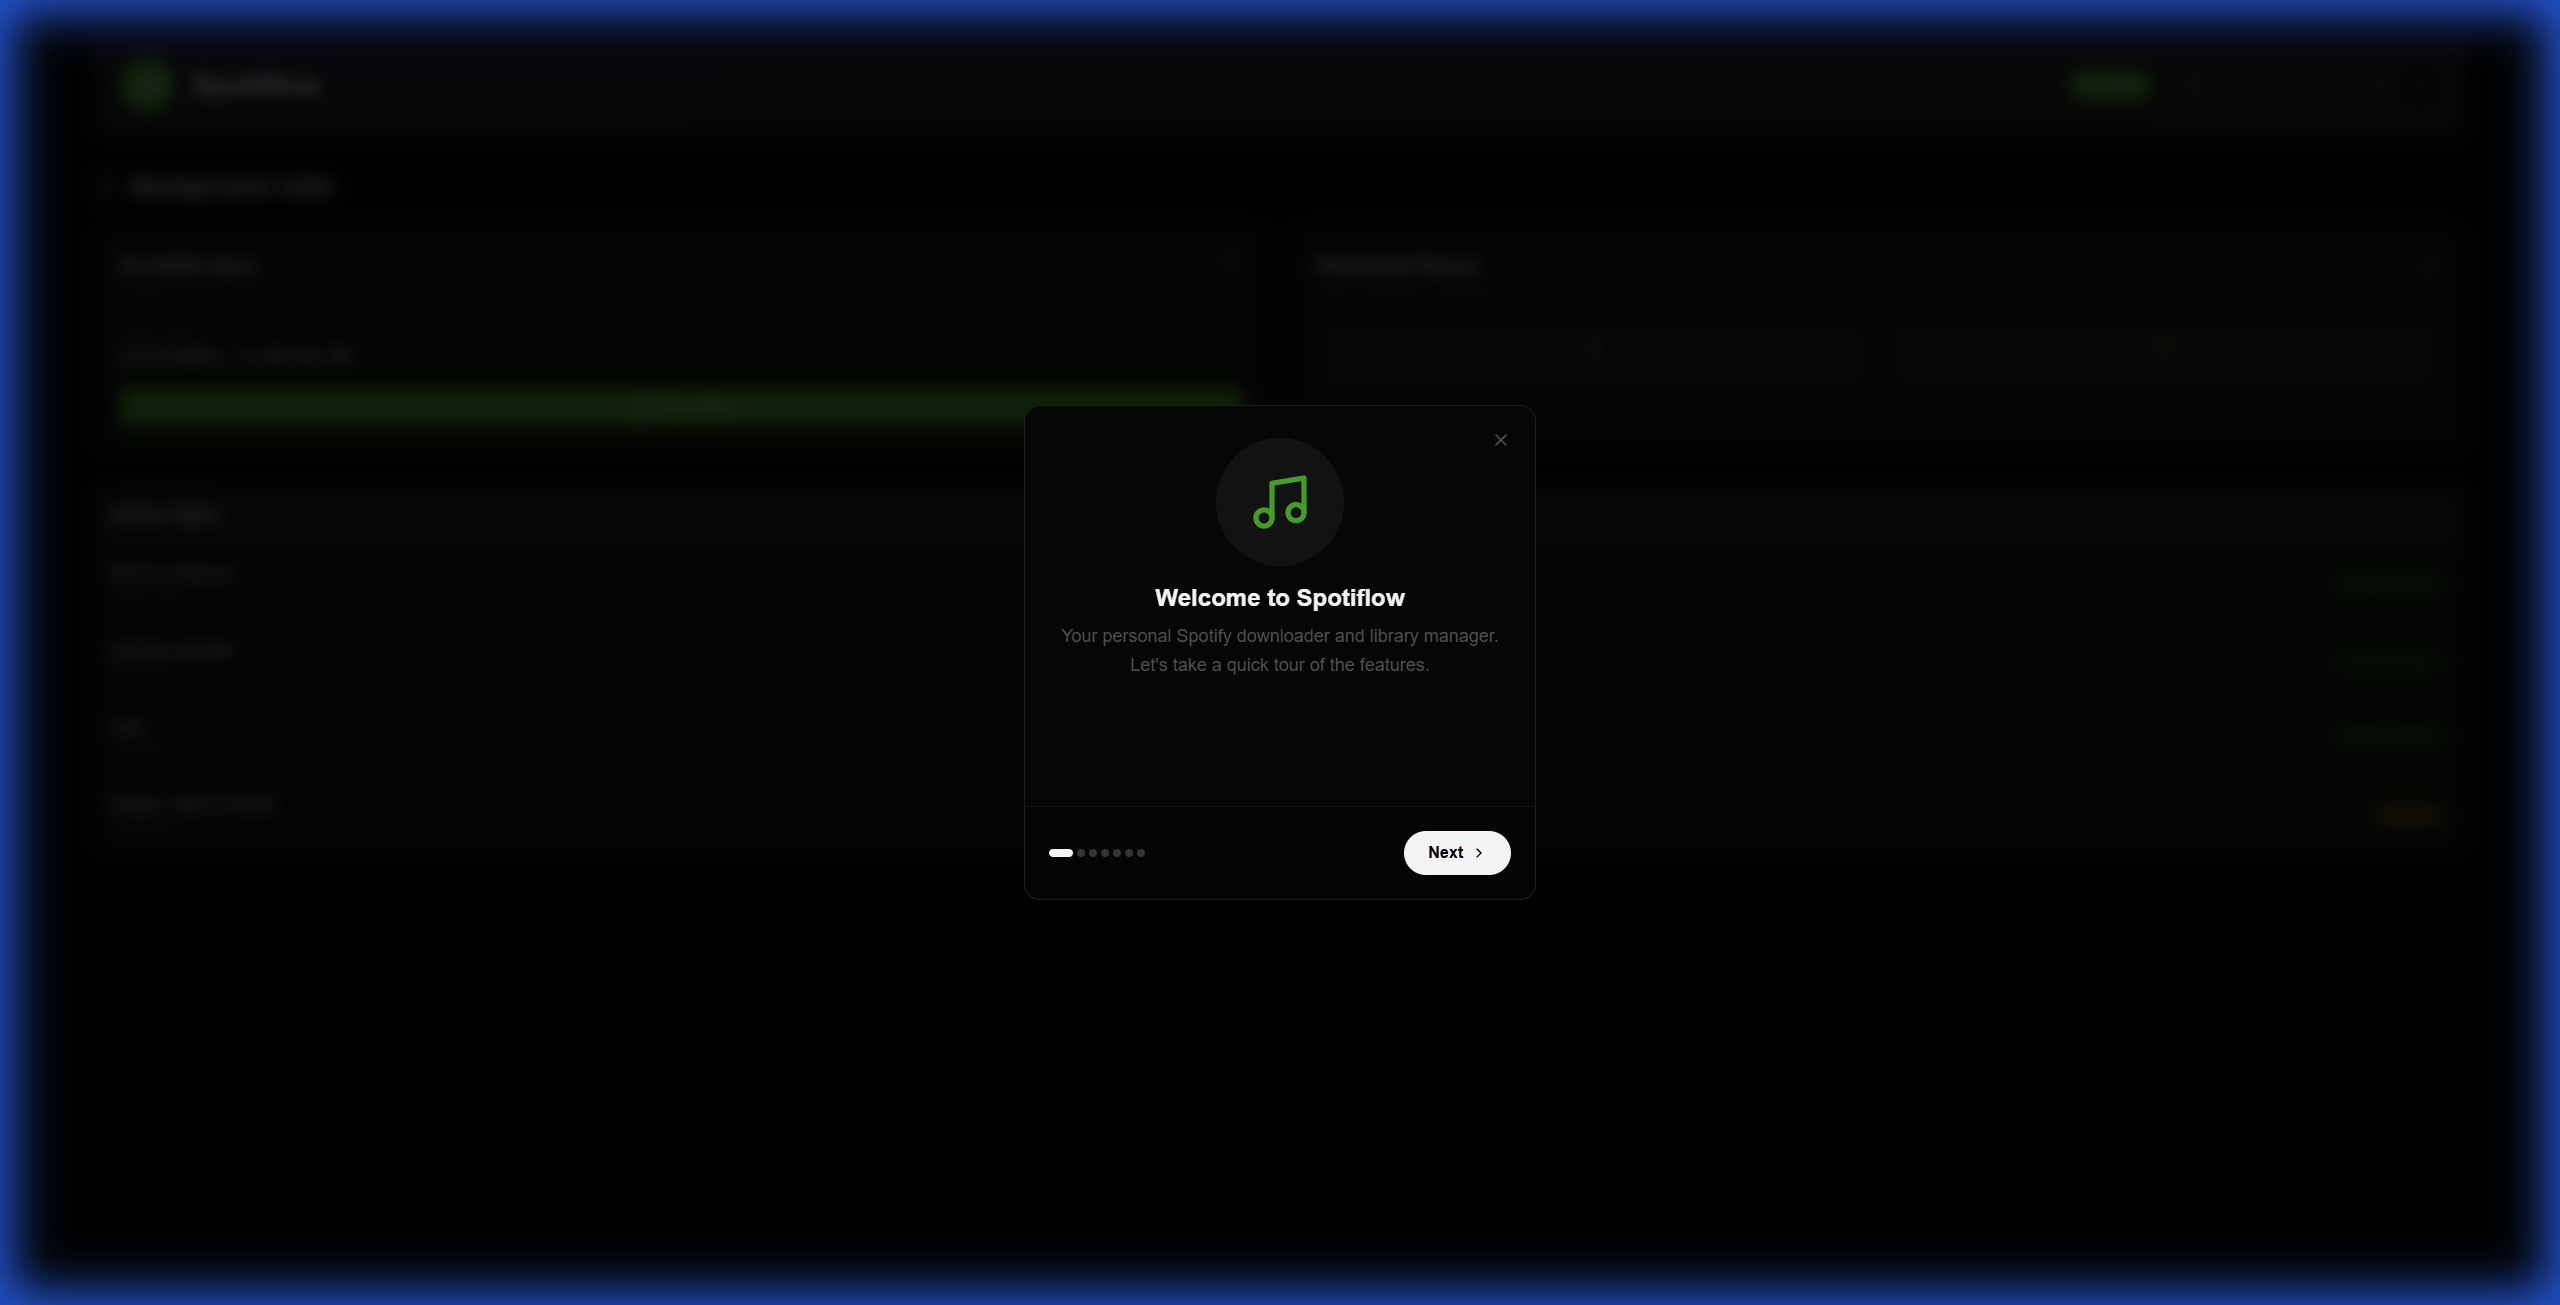
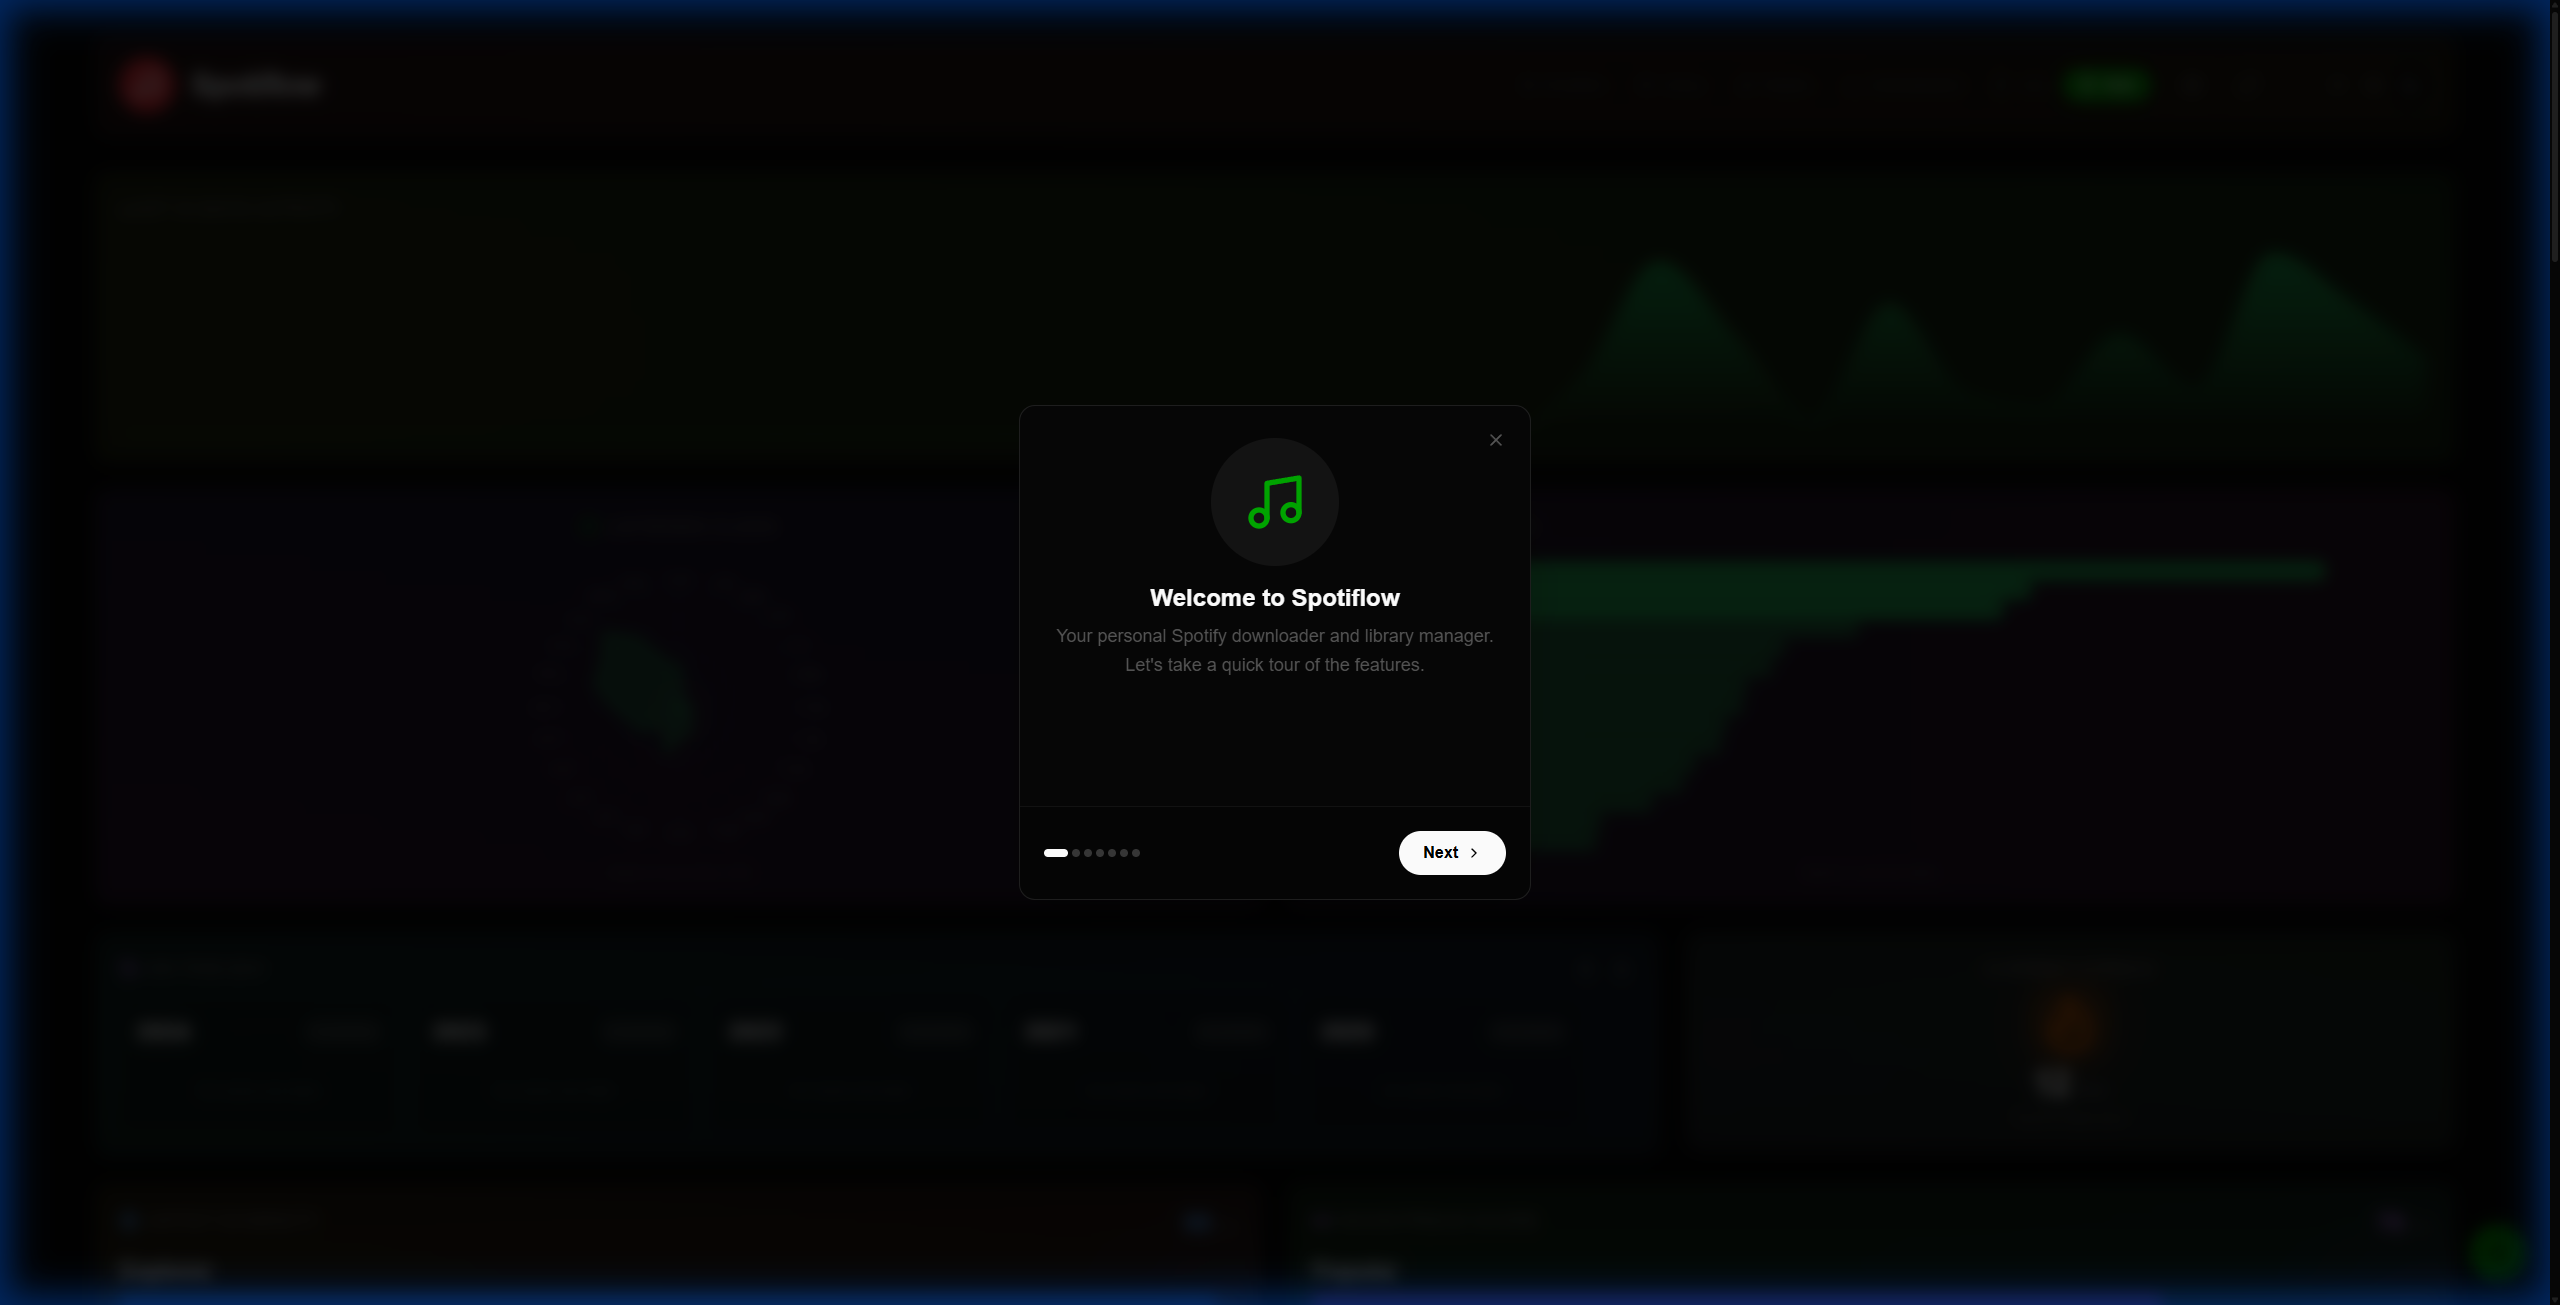
docs: update README and screenshots, impl tutorial prefetching

diff --git a/frontend/src/App.jsx b/frontend/src/App.jsx
@@ -109,11 +109,12 @@ function AppContent() {
     return () => controller.abort();
   }, [username]);
 
-  const fetchScrobbles = async (signal) => {
-    if (!username) return;
+  const fetchScrobbles = async (signal, userOverride) => {
+    const userToFetch = userOverride || username;
+    if (!userToFetch) return;
     setLoading(true);
     try {
-      const response = await axios.get(`${API_URL}/scrobbles/${username}`, { signal });
+      const response = await axios.get(`${API_URL}/scrobbles/${userToFetch}`, { signal });
       setTracks(response.data);
     } catch (error) {
       if (axios.isCancel(error)) return;
@@ -188,6 +189,48 @@ function AppContent() {
       toast.error("Failed to fetch library");
     } finally {
       if (!signal?.aborted) setLoading(false);
+    }
+  };
+
+  const prefetchStats = async (userOverride) => {
+    const user = userOverride || username;
+    if (!user) return;
+
+    const periods = ['overall', '1month']; // Prefetch most common periods
+
+    try {
+      const promises = [
+        // Top Tracks for main periods
+        ...periods.map(period => axios.get(`${API_URL}/stats/top-tracks/${user}`, { params: { period, limit: 50 } })),
+
+        // Activity Chart
+        axios.get(`${API_URL}/stats/chart`, { params: { user, period: '1month' } }),
+
+        // Listening Clock
+        axios.get(`${API_URL}/stats/listening-clock/${user}`, { params: { period: 'overall' } }),
+
+        // Genre Breakdown
+        axios.get(`${API_URL}/stats/genre-breakdown/${user}`, { params: { period: 'overall' } }),
+
+        // On This Day
+        axios.get(`${API_URL}/stats/on-this-day/${user}`),
+
+        // Streak
+        axios.get(`${API_URL}/stats/streak/${user}`),
+
+        // Diversity
+        axios.get(`${API_URL}/stats/diversity/${user}`, { params: { period: 'overall' } }),
+
+        // Mainstream
+        axios.get(`${API_URL}/stats/mainstream/${user}`, { params: { period: 'overall' } }),
+
+        // Top Artists
+        axios.get(`${API_URL}/stats/top-artists/${user}`, { params: { period: 'overall', limit: 3 } })
+      ];
+
+      await Promise.all(promises);
+    } catch (error) {
+      console.error("Error prefetching stats:", error);
     }
   };
 
@@ -337,6 +380,15 @@ function AppContent() {
           } catch (error) {
             console.error("Failed to save tutorial status:", error);
           }
+        }}
+        onTutorialComplete={async (newUsername) => {
+          setUsername(newUsername);
+          // Prefetch scrobbles, downloads, AND stats
+          await Promise.all([
+            fetchScrobbles(null, newUsername),
+            fetchDownloads(null),
+            prefetchStats(newUsername)
+          ]);
         }}
       />
       <TrackStatsModal

diff --git a/frontend/src/TutorialModal.jsx b/frontend/src/TutorialModal.jsx
@@ -1,6 +1,6 @@
 import { useState } from 'react';
 import { motion, AnimatePresence } from 'framer-motion';
-import { X, ChevronRight, Check, Music, Disc, Download, CheckCircle, RefreshCw, Key, Hourglass } from 'lucide-react';
+import { X, ChevronRight, Check, Music, Disc, Download, CheckCircle, RefreshCw, Key, Hourglass, Loader2 } from 'lucide-react';
 import { cn } from './utils';
 import axios from 'axios';
 
@@ -52,12 +52,13 @@ const steps = [
     }
 ];
 
-export function TutorialModal({ isOpen, onClose }) {
+export function TutorialModal({ isOpen, onClose, onTutorialComplete }) {
     const [currentStep, setCurrentStep] = useState(0);
     const [apiKey, setApiKey] = useState('');
     const [apiSecret, setApiSecret] = useState('');
     const [username, setUsername] = useState('');
     const [saving, setSaving] = useState(false);
+    const [prefetching, setPrefetching] = useState(false);
 
     const handleNext = async () => {
         if (currentStep < steps.length - 1) {
@@ -72,10 +73,17 @@ export function TutorialModal({ isOpen, onClose }) {
                         lastfm_api_secret: apiSecret,
                         lastfm_user: username
                     });
+
+                    // Trigger prefetching if callback provided
+                    if (onTutorialComplete) {
+                        setPrefetching(true);
+                        await onTutorialComplete(username);
+                    }
                 } catch (error) {
                     console.error("Failed to save settings:", error);
                 } finally {
                     setSaving(false);
+                    setPrefetching(false);
                 }
             }
             onClose();
@@ -205,7 +213,11 @@ export function TutorialModal({ isOpen, onClose }) {
                                     className="px-6 py-2.5 bg-white text-black font-bold rounded-full hover:scale-105 transition-transform flex items-center gap-2 disabled:opacity-50"
                                 >
                                     {currentStep === steps.length - 1 ? (
-                                        <>Get Started <Check className="w-4 h-4" /></>
+                                        prefetching ? (
+                                            <>Prefetching... <Loader2 className="w-4 h-4 animate-spin" /></>
+                                        ) : (
+                                            <>Get Started <Check className="w-4 h-4" /></>
+                                        )
                                     ) : (
                                         <>Next <ChevronRight className="w-4 h-4" /></>
                                     )}
